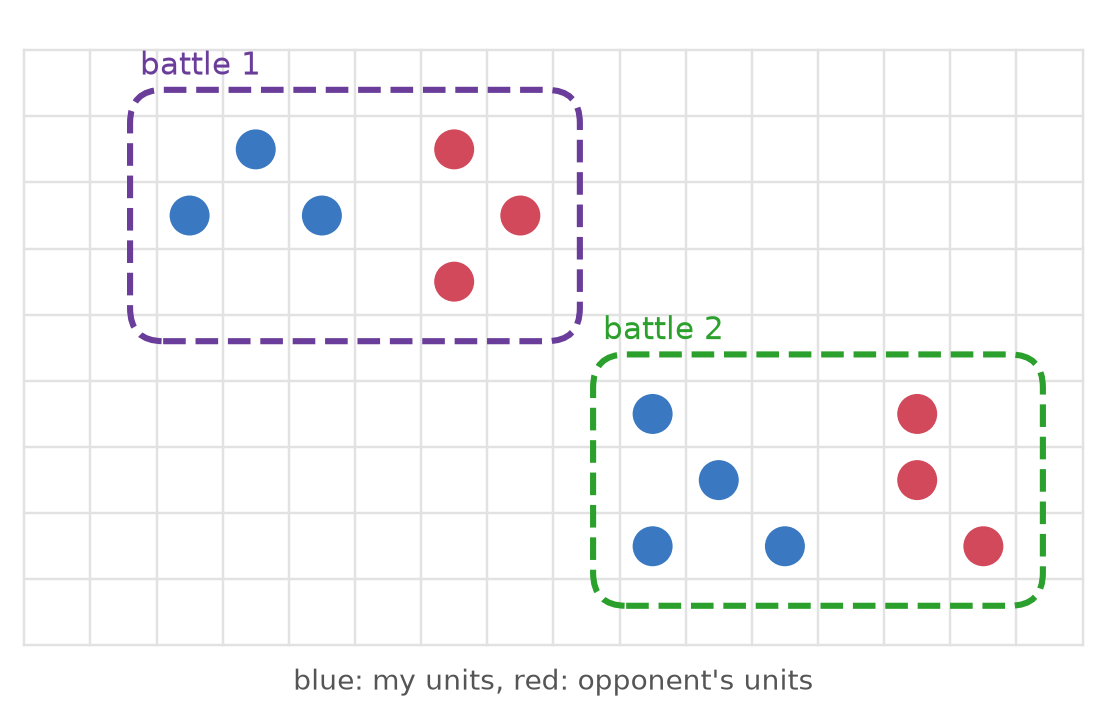
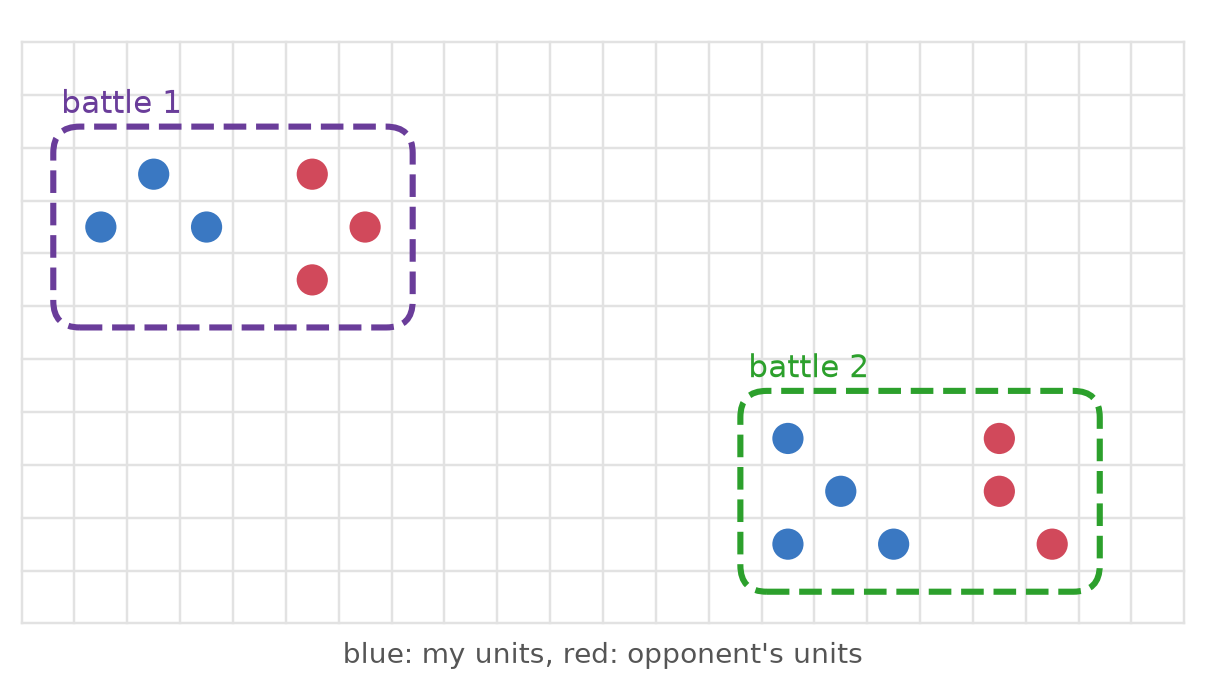
Grouped MCTS: separate the two battles more

diff --git a/scripts/grouped_mcts_figures.py b/scripts/grouped_mcts_figures.py
@@ -76,16 +76,16 @@ def unit(ax, x, y, color, label=None):
 
 def sub_battles():
     """A big map with two local battles; groups and counter groups."""
-    w, h = 16, 9
-    fig, ax = plt.subplots(figsize=(7.2, 4.1))
+    w, h = 22, 11
+    fig, ax = plt.subplots(figsize=(7.6, 3.9))
     map_grid(ax, w, h)
-    north_blue, north_red = [(2, 6), (3, 7), (4, 6)], [(6, 7), (7, 6), (6, 5)]
-    south_blue, south_red = [(9, 1), (10, 2), (11, 1), (9, 3)], [(13, 2), (14, 1), (13, 3)]
+    north_blue, north_red = [(1, 7), (2, 8), (3, 7)], [(5, 8), (6, 7), (5, 6)]
+    south_blue, south_red = [(14, 1), (15, 2), (16, 1), (14, 3)], [(18, 2), (19, 1), (18, 3)]
     for x, y in north_blue + south_blue:
         unit(ax, x, y, BLUE)
     for x, y in north_red + south_red:
         unit(ax, x, y, RED)
-    for (x0, y0, ww, hh, lab, col) in [(1.6, 4.6, 6.8, 3.8, "battle 1", PURPLE), (8.6, 0.6, 6.8, 3.8, "battle 2", GREEN)]:
+    for (x0, y0, ww, hh, lab, col) in [(0.6, 5.6, 6.8, 3.8, "battle 1", PURPLE), (13.6, 0.6, 6.8, 3.8, "battle 2", GREEN)]:
         ax.add_patch(FancyBboxPatch((x0, y0), ww, hh, boxstyle="round,pad=0,rounding_size=0.5", fc="none",
                                     ec=col, lw=2, ls="--", zorder=2))
         ax.text(x0 + 0.15, y0 + hh + 0.12, lab, color=col, fontsize=10, va="bottom")
